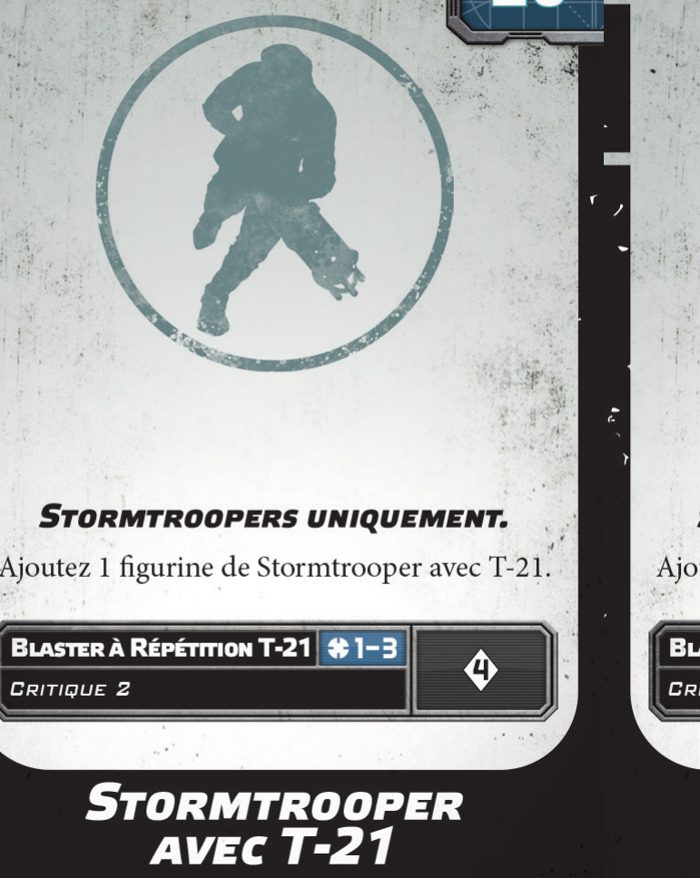
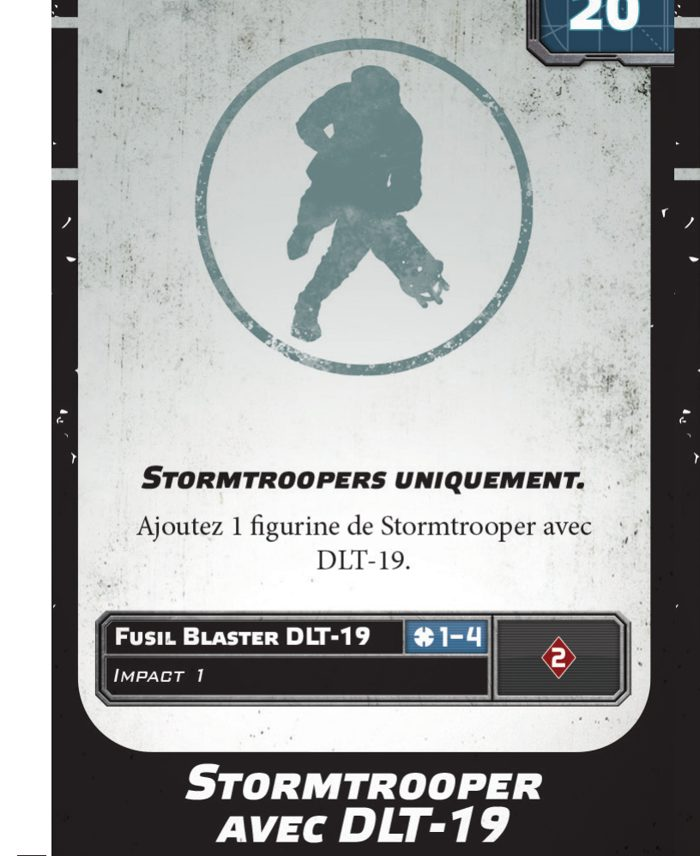
Corrige des mots-clés d'arme manquants (signalés : sabre de Dark Vador)
Suite au signalement de l'utilisateur (Impact 3/Perforant 3 du sabre de
Dark Vador absents en Combat), passe de vérification complète des 108
cartes : chaque carte recomparée un par un à son scan officiel
(public/cards/*.jpg) au lieu de faire confiance à la première extraction
de texte PDF.

Une vingtaine de mots-clés d'arme manquaient, surtout sur les personnages
nommés à plusieurs armes (le texte d'ability était repris mais la ligne
de mot-clé sous l'arme était parfois ratée à l'extraction) :

- Impact/Perforant du sabre de Dark Vador (les deux versions), du sabre
  de Luke (les deux versions) et d'Ahsoka Tano.
- Bélier de The Fifth Brother et de Tauntaun Riders.
- Immunité : Armes Portée 1 + Armure/Arsenal/Couvert manquants sur LAAT/le
  Patrol Transport et T-47 Airspeeder (seules les immunités partielles
  avaient été prises pour le LAAT, rien pour le T-47).
- Agent Kallus : Létal 1 + Longue Distance à la place d'un Perforant 1
  incorrect (erreur de lecture initiale).
- Longue Distance de Shoretroopers, Luke Skywalker (Hero of the Rebellion)
  et Lando Calrissian.
- Suppressif de Jyn Erso et R2-D2.
- Traiter 1 de FX-9 Medical Droid (présent sur 2-1B Medical Droid mais
  oublié ici).
- Travail d'Équipe de Chewbacca et K-2SO ; Équipe de Imperial Special
  Forces Inferno Squad.
- Impact 3 supplémentaire sur TR-TT (Blasters Jumelés MS-4).

Trouvé au passage : bug dans le script de découpage d'image (page "1"
[…]

diff --git a/src/data/cardTags.ts b/src/data/cardTags.ts
@@ -43,6 +43,25 @@ import { normalizeName } from '../lib/normalize';
  * ci-dessus, sans parenthèses ni virgule. Les noms encore marqués
  * « à vérifier » n'ont pas pu être confirmés par une source fiable malgré
  * plusieurs recherches (cartes très récentes ou peu documentées en ligne).
+ *
+ * Passe de vérification complète des 108 cartes (suite à un signalement
+ * utilisateur : Impact/Perforant du sabre de Dark Vador manquants) — chaque
+ * carte recomparée un par un à son scan officiel (public/cards/*.jpg) au
+ * lieu de faire confiance à la première extraction de texte. Une vingtaine
+ * de mots-clés d'arme manquaient, surtout sur les personnages nommés avec
+ * plusieurs armes (le texte d'ability était bien repris mais la ligne
+ * d'arme sous l'illustration était parfois ratée) : Impact/Perforant du
+ * sabre de Dark Vador (les deux versions), du sabre de Luke (les deux
+ * versions) et d'Ahsoka, Bélier de La Septième Sœur→Le Cinquième Frère et
+ * des Tauntaun, Immunité: Armes Portée 1 + Armure/Arsenal/Couvert du LAAT
+ * et du T-47, Létal/Longue Distance d'Agent Kallus (à la place d'un
+ * Perforant erroné), Longue Distance de Shoretroopers/Luke/Lando, Suppressif
+ * de Jyn Erso/R2-D2, Traiter 1 de FX-9 (déjà présent sur 2-1B mais oublié
+ * ici), Travail d'Équipe de Chewbacca/K-2SO, Équipe de Forces Spéciales
+ * Impériales Escouade Inferno. Trouvé au passage : un bug dans le script de
+ * découpage d'image (page "1" confondue avec "10"/"11"/"12"/"13" par un
+ * matching de nom de fichier trop permissif) avait corrompu l'image de DLT-19
+ * Stormtrooper — corrigé et réextraite.
  */
 const RAW: Record<string, { keywordId: string; value?: number }[]> = {
   // --- Empire Galactique ---
@@ -52,11 +71,12 @@ const RAW: Record<string, { keywordId: string; value?: number }[]> = {
     { keywordId: 'immunite-perforant' },
     { keywordId: 'maitre-de-la-force-x', value: 1 },
     { keywordId: 'implacable' },
-    // Valeurs d'Impact/Perforant du sabre volontairement omises : la
-    // version EN et la version FR du premier PDF officiel se
-    // contredisaient (grille d'impression ambiguë, 2 Vador différents
-    // imprimés côte à côte) — vérifiez la carte plutôt que de faire
-    // confiance à un chiffre non confirmé de façon croisée.
+    // Impact/Perforant du sabre laser : ambiguïté d'origine (grille
+    // d'impression peu nette) résolue par le scan recadré et vérifié
+    // (public/cards/darth-vader-dark-lord-of-the-sith.jpg) — la carte
+    // affiche sans ambiguïté "Sabre Laser de Vador : Impact 3, Perforant 3".
+    { keywordId: 'impact-x', value: 3 },
+    { keywordId: 'perforant-x', value: 3 },
   ],
   'Stormtrooper Riot Squad': [
     { keywordId: 'charge' },
@@ -110,6 +130,7 @@ const RAW: Record<string, { keywordId: string; value?: number }[]> = {
   'Shoretroopers': [
     { keywordId: 'coordination' },
     { keywordId: 'position-preparee' },
+    { keywordId: 'longue-distance' },
   ],
   'DF-90 Mortar Trooper': [
     { keywordId: 'detachement' },
@@ -128,6 +149,7 @@ const RAW: Record<string, { keywordId: string; value?: number }[]> = {
     { keywordId: 'fiable-x', value: 1 },
   ],
   'Imperial Special Forces Inferno Squad': [
+    { keywordId: 'equipe' },
     { keywordId: 'infiltration' },
     { keywordId: 'tireur-embusque' },
     { keywordId: 'fiable-x', value: 1 },
@@ -157,16 +179,25 @@ const RAW: Record<string, { keywordId: string; value?: number }[]> = {
     { keywordId: 'marche-forcee' },
   ],
   // Point Faible (direction) et Redéploiement/Transport diffèrent selon la
-  // configuration d'armes choisie sur la carte : omis par prudence.
+  // configuration d'armes choisie sur la carte : omis par prudence (vérifié
+  // sur scan : config "Point Faible 1 : Arrière" n'a ni Redéploiement ni
+  // Transport, contrairement à l'autre config imprimée sur la même planche).
+  // Impact 3 (Blasters Jumelés MS-4) vérifié sur scan, commun aux deux
+  // configs vues.
   'TR-TT': [
     { keywordId: 'armure-x', value: 5 },
     { keywordId: 'arsenal-x', value: 2 },
     { keywordId: 'point-faible-x', value: 1 },
+    { keywordId: 'impact-x', value: 3 },
   ],
   'LAAT/le Patrol Transport': [
+    { keywordId: 'armure-x', value: 5 },
+    { keywordId: 'arsenal-x', value: 2 },
+    { keywordId: 'couvert-x', value: 1 },
     { keywordId: 'sustentation', value: 2 },
     { keywordId: 'immunite-deflagration' },
     { keywordId: 'immunite-corps-a-corps' },
+    { keywordId: 'immunite-armes-portee-1' },
     { keywordId: 'transport' },
     { keywordId: 'impact-x', value: 1 },
   ],
@@ -197,6 +228,8 @@ const RAW: Record<string, { keywordId: string; value?: number }[]> = {
     { keywordId: 'chasseur-de-jedi' },
     { keywordId: 'maitre-de-la-force-x', value: 1 },
     { keywordId: 'implacable' },
+    { keywordId: 'impact-x', value: 3 },
+    { keywordId: 'perforant-x', value: 3 },
     { keywordId: 'deflagration' },
     { keywordId: 'dispersion' },
   ],
@@ -246,7 +279,8 @@ const RAW: Record<string, { keywordId: string; value?: number }[]> = {
     { keywordId: 'immunite-perforant-corps-a-corps' },
     { keywordId: 'interrogatoire' },
     { keywordId: 'critique-x', value: 1 },
-    { keywordId: 'perforant-x', value: 1 },
+    { keywordId: 'letal-x', value: 1 },
+    { keywordId: 'longue-distance' },
   ],
   'The Fifth Brother': [
     { keywordId: 'blocage' },
@@ -255,6 +289,7 @@ const RAW: Record<string, { keywordId: string; value?: number }[]> = {
     { keywordId: 'immunite-perforant' },
     { keywordId: 'impact-x', value: 2 },
     { keywordId: 'perforant-x', value: 1 },
+    { keywordId: 'belier-x', value: 2 },
   ],
   'The Seventh Sister': [
     { keywordId: 'saut-x', value: 1 },
@@ -321,6 +356,7 @@ const RAW: Record<string, { keywordId: string; value?: number }[]> = {
   ],
   'FX-9 Medical Droid': [
     { keywordId: 'non-combattant' },
+    { keywordId: 'traiter-x', value: 1 },
   ],
   'Imperial Officer': [
     { keywordId: 'chef' },
@@ -399,12 +435,17 @@ const RAW: Record<string, { keywordId: string; value?: number }[]> = {
     { keywordId: 'redeploiement' },
     { keywordId: 'tireur-delite-x', value: 1 },
     { keywordId: 'sans-entrave' },
+    { keywordId: 'belier-x', value: 1 },
   ],
   'T-47 Airspeeder': [
     { keywordId: 'armure-x', value: 3 },
     { keywordId: 'arsenal-x', value: 2 },
     { keywordId: 'couvert-x', value: 1 },
+    { keywordId: 'immunite-deflagration' },
+    { keywordId: 'immunite-corps-a-corps' },
+    { keywordId: 'immunite-armes-portee-1' },
     { keywordId: 'speeder-x', value: 2 },
+    { keywordId: 'impact-x', value: 3 },
   ],
   'X-34 Landspeeder': [
     { keywordId: 'armure-x', value: 2 },
@@ -431,6 +472,9 @@ const RAW: Record<string, { keywordId: string; value?: number }[]> = {
     { keywordId: 'immunite-perforant' },
     { keywordId: 'inspiration-x', value: 2 },
     { keywordId: 'tireur-delite-x', value: 1 },
+    { keywordId: 'impact-x', value: 2 },
+    { keywordId: 'perforant-x', value: 1 },
+    { keywordId: 'longue-distance' },
   ],
   'Luke Skywalker Jedi Knight': [
     { keywordId: 'saut-x', value: 1 },
@@ -439,6 +483,8 @@ const RAW: Record<string, { keywordId: string; value?: number }[]> = {
     { keywordId: 'retrait' },
     { keywordId: 'immunite-perforant' },
     { keywordId: 'maitre-de-la-force-x', value: 1 },
+    { keywordId: 'impact-x', value: 2 },
+    { keywordId: 'perforant-x', value: 2 },
   ],
   'Jyn Erso': [
     { keywordId: 'preste-x', value: 1 },
@@ -447,6 +493,9 @@ const RAW: Record<string, { keywordId: string; value?: number }[]> = {
     { keywordId: 'infiltration' },
     { keywordId: 'agile' },
     { keywordId: 'tireur-delite-x', value: 1 },
+    { keywordId: 'suppressif' },
+    { keywordId: 'longue-distance' },
+    { keywordId: 'perforant-x', value: 1 },
   ],
   'Cassian Andor': [
     { keywordId: 'intuition-du-danger-x', value: 3 },
@@ -463,23 +512,30 @@ const RAW: Record<string, { keywordId: string; value?: number }[]> = {
     { keywordId: 'longueur-davance' },
     { keywordId: 'aguerri' },
     { keywordId: 'coup-de-chance-x', value: 2 },
+    { keywordId: 'longue-distance' },
   ],
   'Chewbacca': [
     { keywordId: 'enrage-x', value: 4 },
     { keywordId: 'gardien-x', value: 3 },
     { keywordId: 'ascension' },
+    { keywordId: 'travail-dequipe' },
+    { keywordId: 'letal-x', value: 1 },
+    { keywordId: 'impact-x', value: 1 },
+    { keywordId: 'perforant-x', value: 1 },
   ],
   'Sabine Wren': [
     { keywordId: 'saut-x', value: 2 },
     { keywordId: 'pistolero' },
     { keywordId: 'insensible' },
     { keywordId: 'agile' },
+    { keywordId: 'perforant-x', value: 1 },
   ],
   'R2-D2': [
     { keywordId: 'reparation-x', value: 2 },
     { keywordId: 'discret' },
     { keywordId: 'infiltration' },
     { keywordId: 'mission-secrete' },
+    { keywordId: 'suppressif' },
   ],
   'Ahsoka Tano': [
     { keywordId: 'saut-x', value: 2 },
@@ -488,6 +544,8 @@ const RAW: Record<string, { keywordId: string; value?: number }[]> = {
     { keywordId: 'deflexion' },
     { keywordId: 'immunite-perforant' },
     { keywordId: 'maitrise-du-jarkai' },
+    { keywordId: 'impact-x', value: 2 },
+    { keywordId: 'perforant-x', value: 2 },
   ],
   'K-2SO': [
     { keywordId: 'calcul-de-probabilites' },
@@ -495,6 +553,7 @@ const RAW: Record<string, { keywordId: string; value?: number }[]> = {
     { keywordId: 'detachement' },
     { keywordId: 'incognito' },
     { keywordId: 'infiltration' },
+    { keywordId: 'travail-dequipe' },
   ],
 
   // --- Améliorations Alliance Rebelle ---
